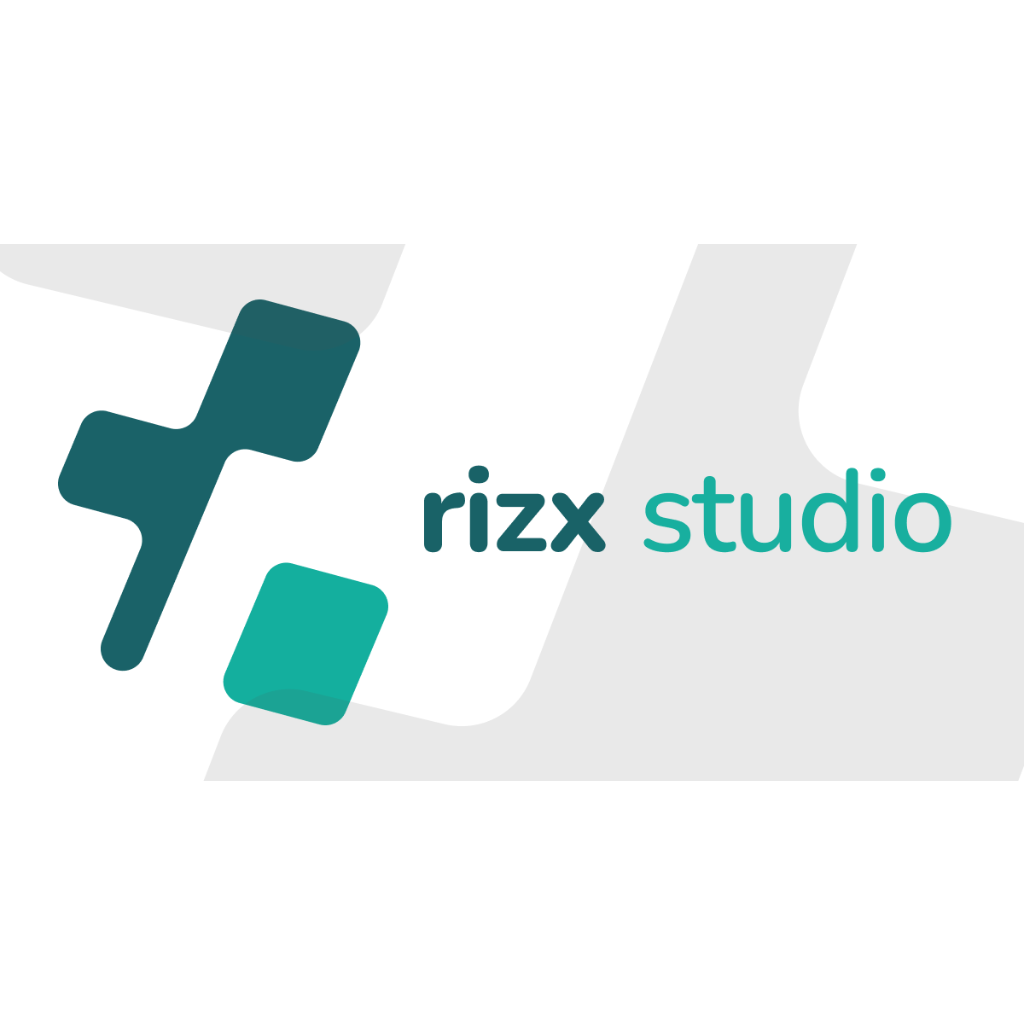
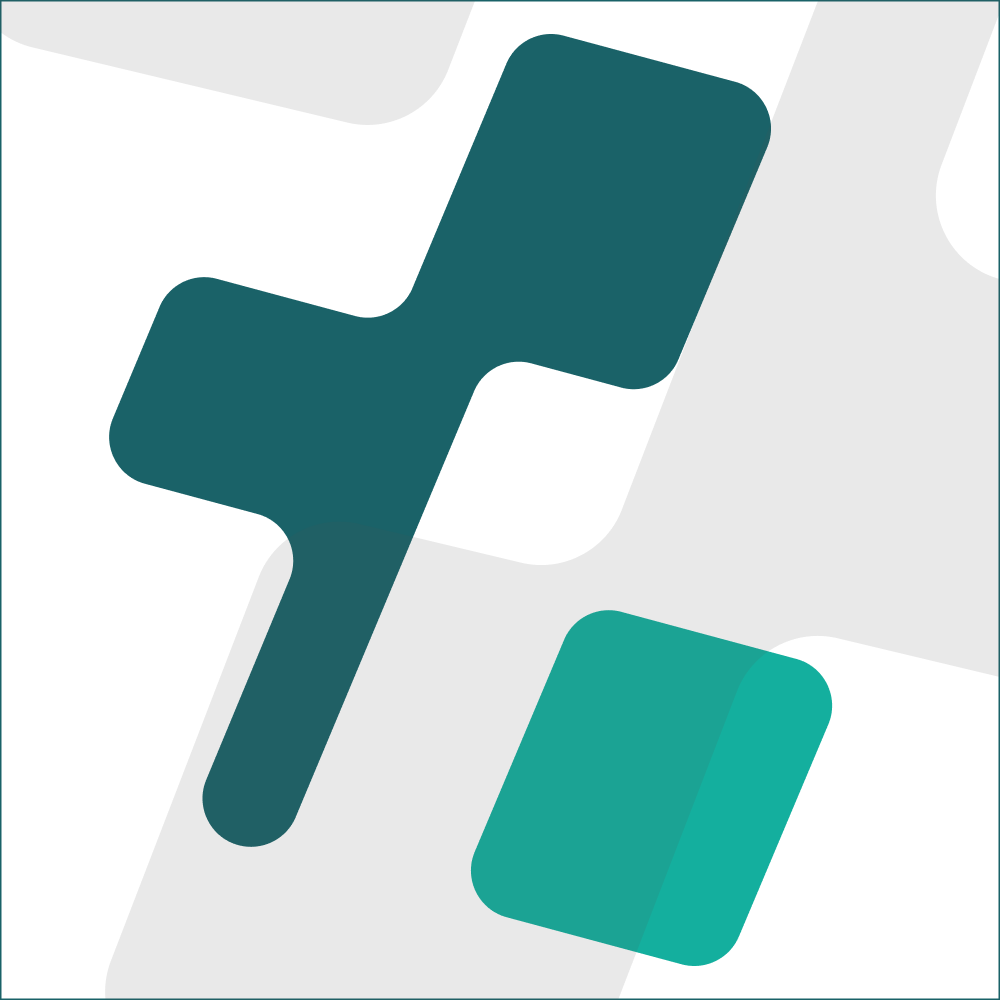
fix(og): replace square OG image with proper 1000x1000 user-provided version

diff --git a/app/layout.tsx b/app/layout.tsx
@@ -32,8 +32,8 @@ export const metadata: Metadata = {
     images: [
       {
         url: "/og-image-square.png",
-        width: 1024,
-        height: 1024,
+        width: 1000,
+        height: 1000,
         alt: "Rizxstudio — Professional Creative, Motion & UI/UX Design Studio",
       },
     ],
